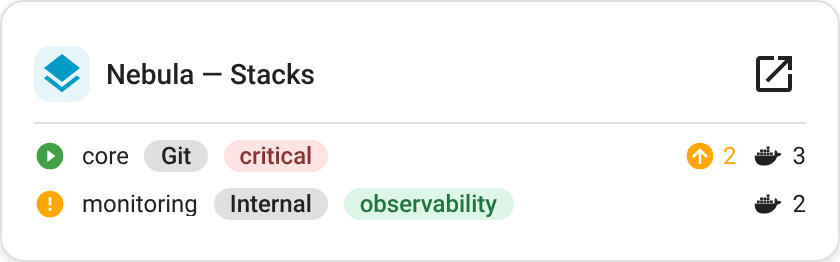
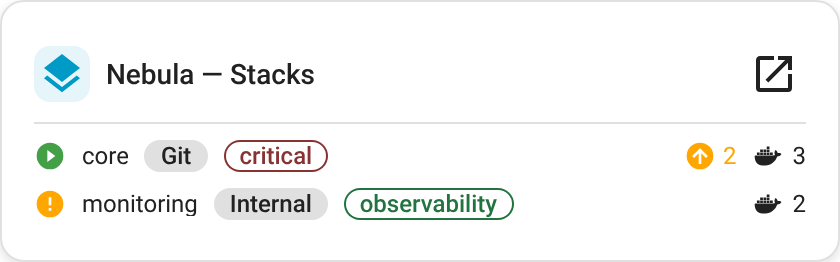
Outline a stack's tags on the stack cards too
An outline now means a stack's tag wherever it shows: on the Stacks and
Stack cards as well as on a container whose stack has it.

Claude-Session: https://claude.ai/code/session_01Y5FKGufmG128A53n6ZJcvX

Changed region(s): [[0.4024, 0.7023, 0.619, 0.855], [0.2476, 0.5191, 0.4024, 0.6718]]

diff --git a/src/common/tag-pills.ts b/src/common/tag-pills.ts
@@ -6,8 +6,9 @@ import { resolveStackEntities } from './entity-resolver';
 import { t } from './i18n-card';
 
 /** A Dockhand tag (ha-dockhand 2.0+): a name, and the colour the user
- * picked for it in Dockhand. `stack` names the stack it comes from on a
- * container, and `own` says the container has it too. */
+ * picked for it in Dockhand. `stack` marks a stack's tag, drawn outlined
+ * wherever it shows: on a container it names the stack it comes from (and
+ * `own` says the container has it too), on the stack itself it's ''. */
 export interface DockhandTag {
   name: string;
   color?: string;
@@ -54,6 +55,12 @@ export function containerTags(hass: HomeAssistant, deviceId: string | undefined,
   ];
 }
 
+/** A stack's own tags, marked as a stack's so they're outlined as they
+ * are on its containers. */
+export function stackTags(stateObj: HassEntity | undefined): DockhandTag[] {
+  return entityTags(stateObj).map((tag) => ({ ...tag, stack: '' }));
+}
+
 /** The same pill and colouring as an environment label: the tag's colour
  * mixed halfway toward the theme's text colour for the text, and at 15%
  * for the background, as in Dockhand. A tag without a colour gets the
@@ -63,7 +70,7 @@ export function renderTagPill(tag: DockhandTag, hass?: HomeAssistant): TemplateR
   const fromStack = tag.stack !== undefined && !tag.own;
   const cls = `label-pill tag-pill${fromStack ? ' from-stack' : tag.stack !== undefined ? ' also-stack' : ''}`;
   const title =
-    tag.stack === undefined || !hass ? nothing : t(hass, fromStack ? 'tag_from_stack' : 'tag_also_on_stack', { stack: tag.stack });
+    !tag.stack || !hass ? nothing : t(hass, fromStack ? 'tag_from_stack' : 'tag_also_on_stack', { stack: tag.stack });
   const style = tag.color
     ? `color: color-mix(in srgb, ${tag.color} 50%, var(--primary-text-color));${fromStack ? '' : ` background: rgb(from ${tag.color} r g b / 0.15);`}`
     : nothing;

diff --git a/src/dockhand-stacks-card/card.ts b/src/dockhand-stacks-card/card.ts
@@ -17,7 +17,7 @@ import { DEFAULT_STACKS_BADGES, type DockhandStacksCardConfig, type StacksGroupB
 import { renderRowControls, renderActionsColumn, resolveDeviceControls, rowControlSlots } from '../common/device-controls';
 import { applyFilters, type FilterExtractor } from '../common/filters';
 import { renderFilteredNote, tagValues } from '../common/list-filters';
-import { entityTags, renderTagPills } from '../common/tag-pills';
+import { renderTagPills, stackTags } from '../common/tag-pills';
 import { cell, renderAlignedList, shownColumns } from '../common/aligned-list';
 import { cardStyles } from './styles';
 import { RowFitController } from '../common/row-fit';
@@ -390,7 +390,7 @@ export class DockhandStacksCard extends LitElement implements LovelaceCard {
           <span class="item-name">${row.name}</span>
           ${visible.has('type') ? html`<span class="label-pill name-label">${stateLabel(this._hass, 'stack_type', row.type)}</span>` : nothing}
           ${visible.has('environment') ? html`<span class="label-pill name-label">${row.environment}</span>` : nothing}
-          ${visible.has('tags') ? renderTagPills(entityTags(found.status?.state)) : nothing}
+          ${visible.has('tags') ? renderTagPills(stackTags(found.status?.state)) : nothing}
         </div>
         ${columns.map((key) => this._renderCell(key, row))}
       </div>

diff --git a/src/dockhand-stack-card/card.ts b/src/dockhand-stack-card/card.ts
@@ -18,7 +18,7 @@ import { renderUpdateKindIcon, updateStatus, type UpdateStatus } from '../common
 import { joinWithDividers, mergeSections } from '../common/section-join';
 import { renderHeaderControls, resolveDeviceControls } from '../common/device-controls';
 import { DEFAULT_STACK_SECTIONS, type DockhandStackCardConfig } from './types';
-import { entityTags, renderTagRow } from '../common/tag-pills';
+import { renderTagRow, stackTags } from '../common/tag-pills';
 import { cardStyles } from './styles';
 
 const STATUS_ICON: Record<string, string> = {
@@ -150,7 +150,7 @@ export class DockhandStackCard extends LitElement implements LovelaceCard {
               })}
             </div>
           </div>
-          ${renderTagRow(entityTags(s.status?.state))}
+          ${renderTagRow(stackTags(s.status?.state))}
           <div class="divider"></div>
           ${this._renderBody(s, isGit, device)}
         </div>

diff --git a/src/common/tag-pills.dom.test.ts b/src/common/tag-pills.dom.test.ts
@@ -157,8 +157,13 @@ describe("a stack's tags on its containers", () => {
     expect(el.shadowRoot!.querySelectorAll('.row-left')).toHaveLength(1);
     el.remove();
     el = await mount('stacks', hass, { device_id: 'env-device' });
+    // Outlined on the stack too, so an outline always means a stack's tag.
     expect(pills(el)).toEqual(['Critical', 'db']);
-    expect(el.shadowRoot!.querySelectorAll('.tag-pill.from-stack, .tag-pill.also-stack')).toHaveLength(0);
+    expect(el.shadowRoot!.querySelectorAll('.tag-pill.from-stack')).toHaveLength(2);
+    expect(el.shadowRoot!.querySelector('.tag-pill.from-stack')!.hasAttribute('title')).toBe(false);
+    el.remove();
+    el = await mount('stack', hass, { device_id: 'dev-app' });
+    expect(el.shadowRoot!.querySelectorAll('.tag-pill.from-stack')).toHaveLength(2);
     el.remove();
   });
 });

diff --git a/docs/styling.md b/docs/styling.md
@@ -110,7 +110,7 @@ Every card's structure uses plain, stable class names — no CSS Modules, no gen
 - `.version-tag-pill` — the newer version tag pill on an Updates card row (additive, so `.label-pill` still matches it); its text uses `--dockhand-status-warn-text-color`
 - `.filtered-note` — the "Hidden by filters" line under a filtered list
 - `.item-name` — a row's own primary name text, truncating with an ellipsis the same way a header's own name does
-- `.label-pill` — a small rounded label (a stack/container type, a custom environment label) — shared by every card that has one, see `docs/architecture.md` §10. `.tag-pill` is a Dockhand tag on Stacks/Containers rows and in the Stack/Container cards' `.tag-row`; its colour is the user's own choice in Dockhand, set inline like an environment label's (text mixed halfway toward `--primary-text-color`, background at 15%). On a container, `.tag-pill.from-stack` is a tag from its stack only (outlined, no background) and `.tag-pill.also-stack` one on both (filled and outlined); the outline is an inset ring in the pill's text colour
+- `.label-pill` — a small rounded label (a stack/container type, a custom environment label) — shared by every card that has one, see `docs/architecture.md` §10. `.tag-pill` is a Dockhand tag on Stacks/Containers rows and in the Stack/Container cards' `.tag-row`; its colour is the user's own choice in Dockhand, set inline like an environment label's (text mixed halfway toward `--primary-text-color`, background at 15%). `.tag-pill.from-stack` is a stack's tag (outlined, no background), on the Stacks and Stack cards and on a container whose stack has it; `.tag-pill.also-stack` is one a container and its stack both have (filled and outlined); the outline is an inset ring in the pill's text colour
 - `.header-icon` — every header icon on every card, clickable or genuinely static, either side of the header: an update chip, a feature toggle, the Dockhand link, and Environment's own connection-type icon (merged in from a former separate `.conn-icon`) — all one shared shape and treatment, so they visually line up and behave identically regardless of what each one is or does. `.link-unavailable` is the Dockhand link's own muted, non-interactive state when no usable URL could be resolved — additive, so a rule targeting `.header-icon` alone still matches this state too.
 - `.row-icon` — a small, non-shrinking icon+optional-text badge on a list row, position-neutral (used both as a row's own standalone content, and nested inside `.row-right` as one of several trailing badges), clickable or genuinely static (a metric row's own "CPU"/"Memory" label) — shared by every list-shaped card, see `docs/architecture.md` §18
 - `.stat` — a small icon+count summary badge, always static (a container-state count, a schedule-run outcome count) — see `docs/architecture.md` §18

diff --git a/docs/architecture.md b/docs/architecture.md
@@ -173,7 +173,7 @@ Wedges and rounded corners come from `d3-shape`'s `arc()`, the one dependency be
 - **`renderResourceMetrics` / `renderResourceIo`** (`common/resource-sections.ts`): CPU/memory bars and the network/disk grid, for the Container and Stack cards. A stack has no memory percentage (`STACK_RESOURCE_KEYS`), so its bar is usage over limit, as on Dockhand's Stacks page.
 - **`newerVersionTag` / `isVersionTagOnly` / `versionTagTooltip`** (`common/version-tag.ts`): ha-dockhand's newer-version-tag attributes, for the Updates, Containers and Stack cards. The tooltip follows Dockhand's `VersionUpdateBadge.svelte`.
 - **`updateStatus` / `updateKindIcon` / `renderUpdateKindIcon`** (`common/update-kind.ts`): what an update entity that's on means — `installable`, `tag` (newer tag only), `pinned` (moved digest on a digest-pinned image) or `held` (`update_held_hours`); the last three have nothing to install. Orange arrow, grey tag, orange pin, grey clock, as in Dockhand's containers list.
-- **`renderTagPills` / `containerTags`** (`common/tag-pills.ts`): Dockhand tags as colored pills, plus the count pill `RowFitController` swaps in; the pill group shrinks before the name does. `containerTags()` adds a container's stack's tags after its own, read from the stack's Status sensor through the container device's parent, so ha-dockhand stores each only once: outlined when only the stack has one, filled and outlined when both do. The container Tags filter uses it too.
+- **`renderTagPills` / `containerTags`** (`common/tag-pills.ts`): Dockhand tags as colored pills, plus the count pill `RowFitController` swaps in; the pill group shrinks before the name does. `containerTags()` adds a container's stack's tags after its own, read from the stack's Status sensor through the container device's parent, so ha-dockhand stores each only once: outlined when only the stack has one, filled and outlined when both do. `stackTags()` outlines a stack's own tags on the Stacks and Stack cards too, so an outline means a stack's tag everywhere. The container Tags filter uses it too.
 - **`PairGridController`** (`common/pair-grid.ts`): stacks every `.grid-2` pair at once when the widest item won't fit in half the width, measured from content.
 - **`RowFitController`** (`common/row-fit.ts`): on a list row whose name would be cut, tags that don't fit fold into one count pill (`.compact-tags`), or are left out when even that doesn't fit (`.no-tags`); then the name's environment, type and instance pills (`.name-label`) when the name would show less than 6em (`.no-labels`). For an aligned list it then sets the name track's minimum, drops an Updates row's tag pill text when its version would be cut (`.compact-version`) and makes the list scroll sideways if it still doesn't fit (`.overflowing`); §13. Measured with the classes off each time, so rows don't flip back and forth.
 

diff --git a/CHANGELOG.md b/CHANGELOG.md
@@ -12,7 +12,7 @@ and [Unreleased] is the notes of the current test build.
 
 ### Added
 
-- **Stack tags on containers** — the Containers and Container cards show a container's stack's Dockhand tags after its own, as Dockhand's containers list does ([#108](https://github.com/raetha/ha-dockhand-cards/issues/108)). Its own are filled, its stack's outlined (hover for the stack), and one on both is filled and outlined. The Containers and Updates cards' **Tags** filter matches a container by its stack's tags too. A stack's own tags are only those assigned to it in Dockhand from the Dockhand integration 2.1.0, which goes with this release.
+- **Stack tags on containers** — the Containers and Container cards show a container's stack's Dockhand tags after its own, as Dockhand's containers list does ([#108](https://github.com/raetha/ha-dockhand-cards/issues/108)). Its own are filled, its stack's outlined (hover for the stack), and one on both is filled and outlined. The Stacks and Stack cards outline a stack's tags too, so an outline always means a stack's tag. The Containers and Updates cards' **Tags** filter matches a container by its stack's tags too. A stack's own tags are only those assigned to it in Dockhand from the Dockhand integration 2.1.0, which goes with this release.
 
 ### Internal
 

diff --git a/docs/cards/containers.md b/docs/cards/containers.md
@@ -34,4 +34,6 @@ A container shows its stack's Dockhand tags too, after its own, as Dockhand's co
 - **Outlined**: a tag assigned to its stack. Hover for the stack's name.
 - **Filled and outlined**: on both the container and its stack.
 
+The Stacks and Stack cards draw a stack's tags outlined too, so an outline means a stack's tag wherever you see it.
+
 The **Tags** filter matches a container by its stack's tags too, as Dockhand's does. Dockhand can turn stack tags off in its containers list, but keeps that choice in your browser, where Home Assistant can't see it, so the cards always show them. A stack's own tags are only the ones assigned to it in Dockhand: tags its services name in their labels stay on those containers (ha-dockhand 2.1+).
